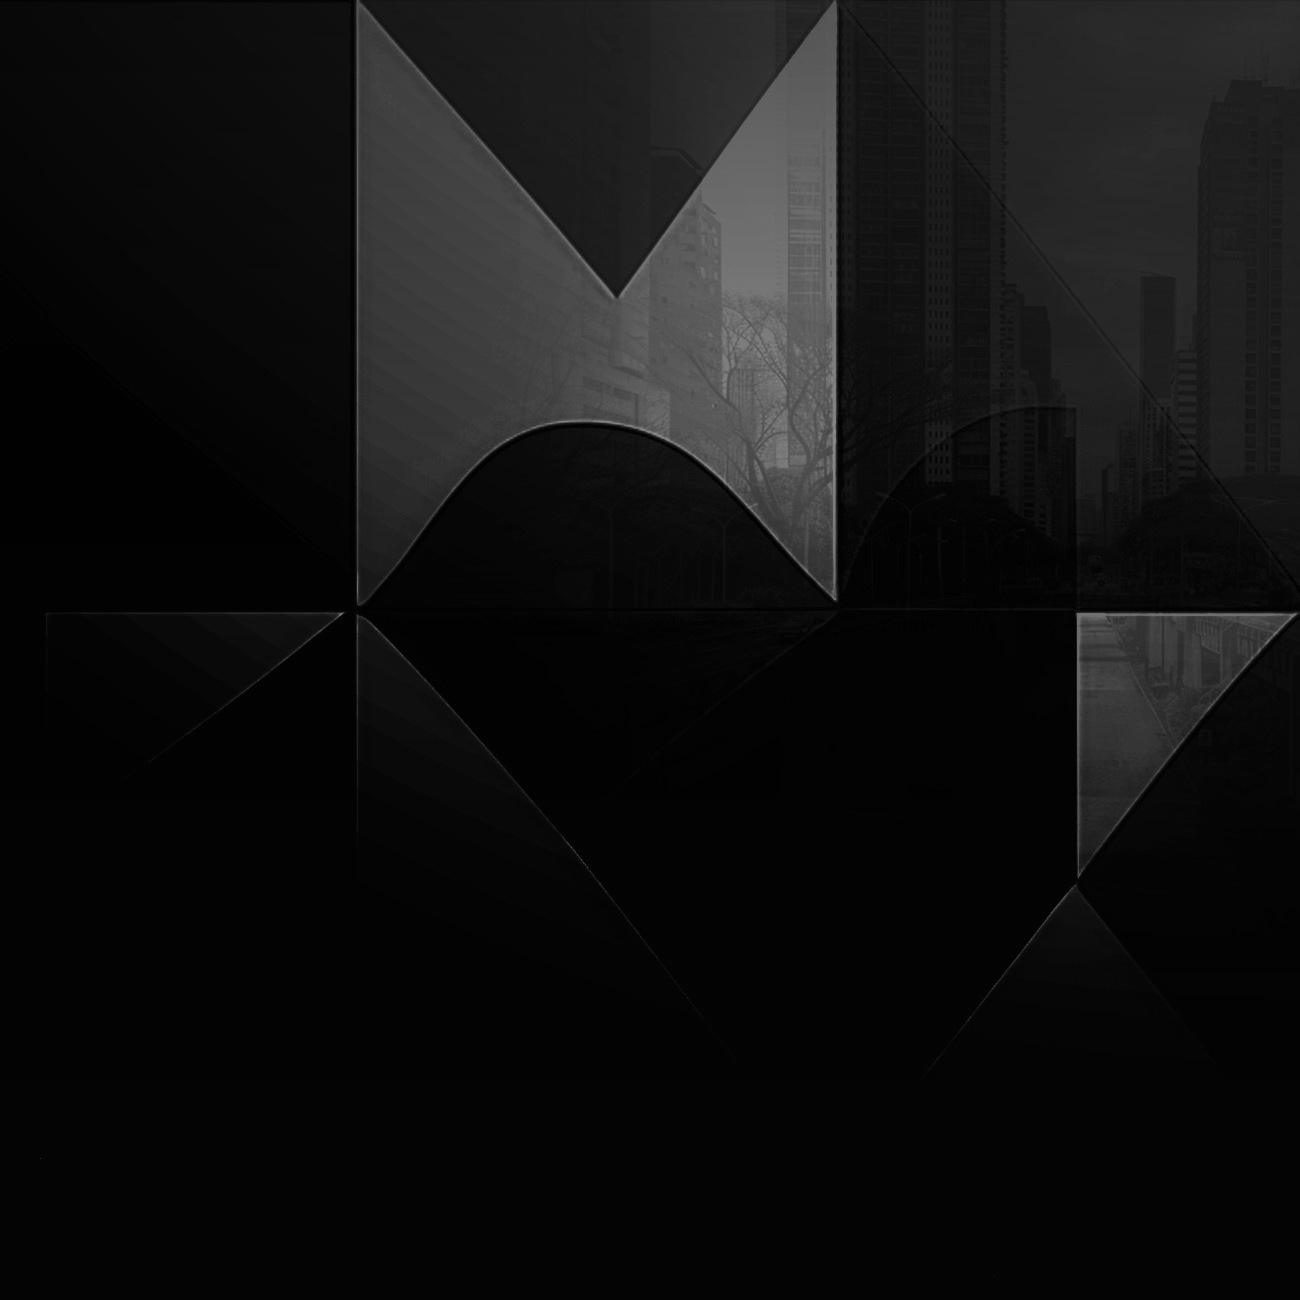
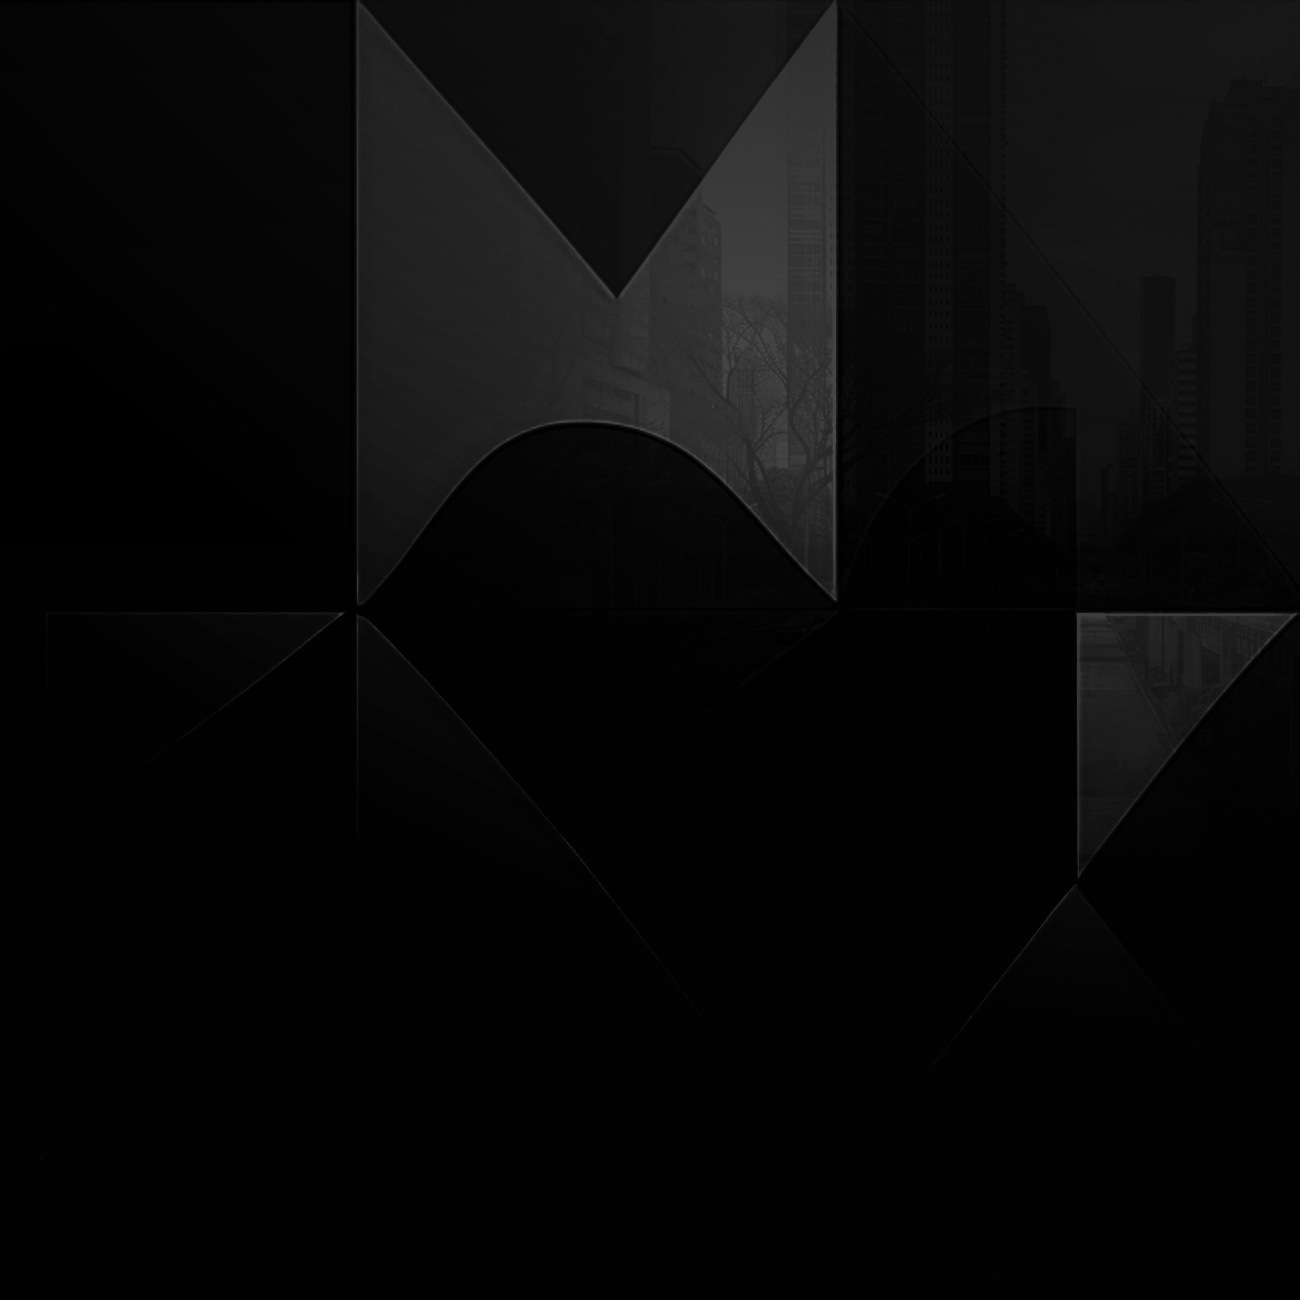
Template 10 · Xadrez: miolo com a faixa contínua do dono (sem emenda entre páginas) e fim mais escuro
Claude-Session: https://claude.ai/code/session_017mkQW885k4H9tbGerhJzi7

Changed region(s): [[0.2769, 0.0, 0.6462, 0.4615], [0.8308, 0.4615, 1.0, 0.5846]]

diff --git a/public/arte-modelos.js b/public/arte-modelos.js
@@ -667,7 +667,7 @@ COMPOR_EXTRA['xadrez-capa'] = (d, ctx) => {
   return desviaDoTexto(s, ctx);
 };
 COMPOR_EXTRA['xadrez-lista'] = (d, ctx) => {   // __z 1.3: texto 30% maior que o do Fogo (decisão do dono, 18/11/2026)
-  const s = COMPOR_EXTRA['fogo-lista']({ ...d, __z: 1.3, ...((ctx.i || 0) === 1 ? { __centro: 540 } : {}), ...((ctx.i || 0) === (ctx.total || 1) - 2 ? { __maxW: 640 } : {}) }, ctx); s.bg = { asset: 'tpl-xadrez-fundo-2', color: '#e8e4da' }; s.paper = '#e8e4da';
+  const s = COMPOR_EXTRA['fogo-lista']({ ...d, __z: 1.3, ...((ctx.i || 0) === 1 ? { __centro: 540 } : {}), ...((ctx.i || 0) === (ctx.total || 1) - 2 ? { __maxW: 640 } : {}) }, ctx); s.bg = { asset: ((ctx.i || 1) - 1) % 2 ? 'tpl-xadrez-fundo-2b' : 'tpl-xadrez-fundo-2', color: '#e8e4da' };   // faixa contínua do dono (referencia/miolo-faixa.png): cada página é meia volta do desenho, alternando 2 e 2b, sem emenda s.paper = '#e8e4da';
   s.items = s.items.filter(it => it.asset !== 'tpl-fogo-nota');
   xzCor(xzCor(xzCor(s, '#ffffff', XZ.escuro), '#f2f2f2', XZ.corpo), FG.red, '#b8901c');
   if ((ctx.i || 0) === (ctx.total || 1) - 2) s.items.push({ asset: 'tpl-xadrez-rei', x: F2((fx(1115) - 115) / 1080), y: F2(fy(923) / 1350), size: Math.round(fy(1836)), rot: -30, cruza: true });   // rei em pé entrando no fim, como no original
